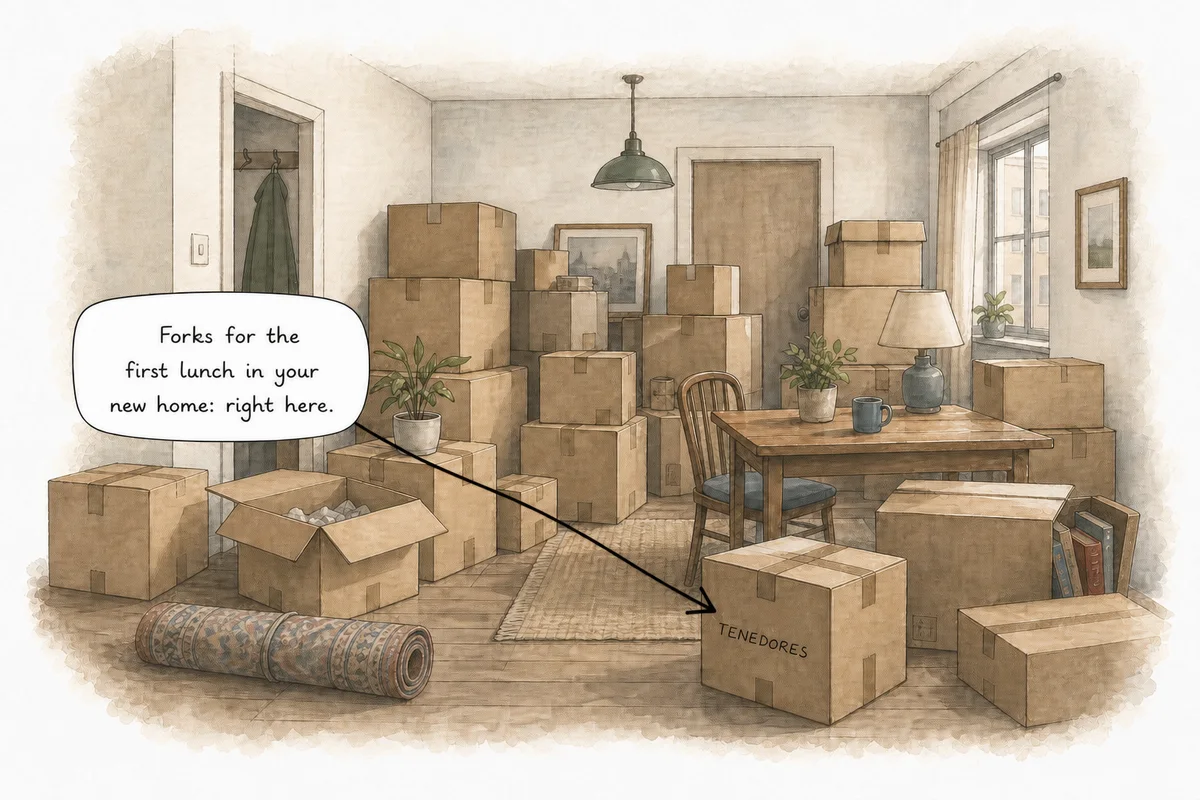
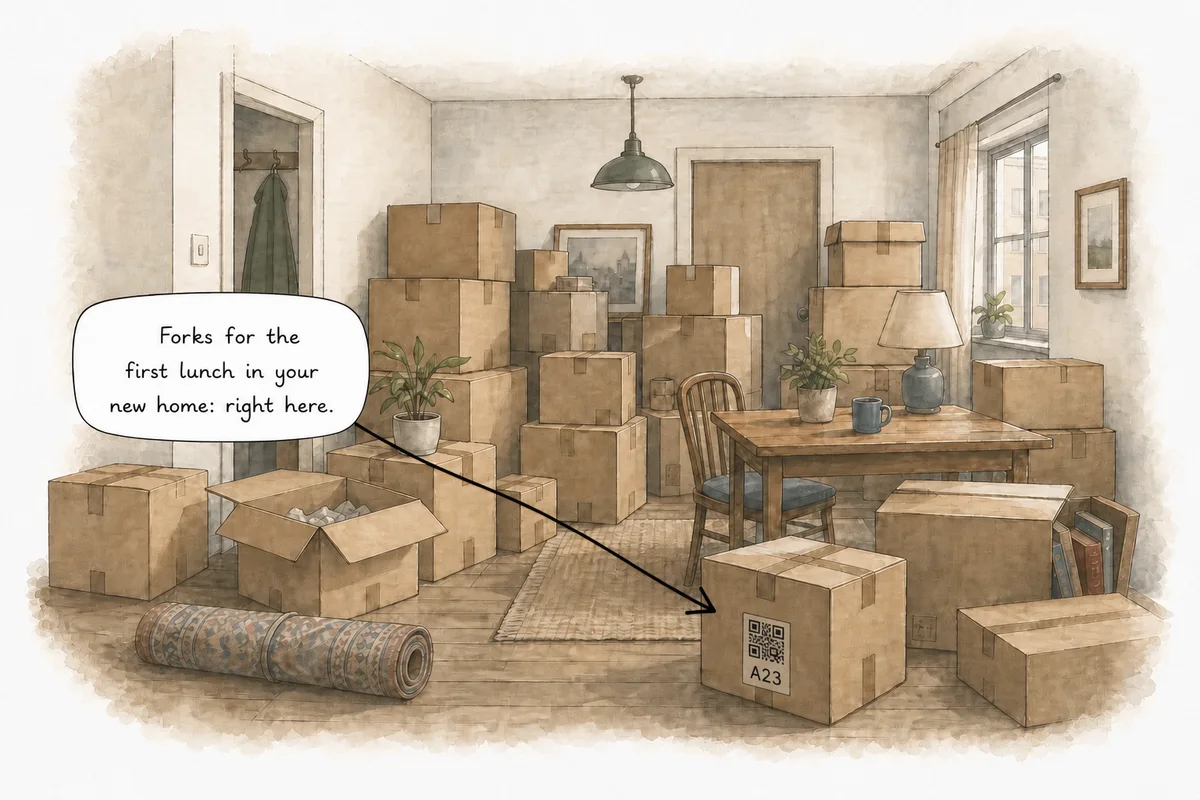
fix(home): separate identity and access paths
Keep the brand definition distinct from functional access modes, add the classic web workflow, refine hero examples, and replace explicit box labeling with an A23 QR reference.\n\nRefs #109

diff --git a/inventory/templates/inventory/home.html b/inventory/templates/inventory/home.html
@@ -12,7 +12,7 @@
         {% translate "A memory for the things around you." %}
       </p>
       <h1 id="page-title">{% translate "Real life is messy." %} <span>{% translate "Let AI help a little." %}</span></h1>
-      <p>{% translate "Tell your AI agent what you have and where it is. Later, ask where the hinges, a book, or that 6 mm drill bit ended up." %}</p>
+      <p>{% translate "Tell your AI agent what you have and where it is. Later, ask where that 6 mm drill bit, a book, or the forks ended up." %}</p>
       <div class="actions">
         {% if user.is_authenticated %}
           <a class="button button-primary" href="{% url 'dashboard' %}">{% translate "Open inventories" %}</a>
@@ -60,18 +60,28 @@
     </div>
   </section>
 
-  <section class="identity-band">
-    <aside class="dictionary-entry" aria-labelledby="quilombo-definition">
-      <div>
-        <h2 id="quilombo-definition">quilombo</h2>
-        <span class="dictionary-class">{% translate "noun · lunfardo" %}</span>
-      </div>
-      <p>{% translate "From the slang of the Río de la Plata: a mess, a chaotic tangle, or a situation that has gotten out of hand." %}</p>
-    </aside>
-    <div class="technical-note">
+  <aside class="dictionary-entry" aria-labelledby="quilombo-definition">
+    <div>
+      <h2 id="quilombo-definition">quilombo</h2>
+      <span class="dictionary-class">{% translate "noun · lunfardo" %}</span>
+    </div>
+    <p>{% translate "From the slang of the Río de la Plata: a mess, a chaotic tangle, or a situation that has gotten out of hand." %}</p>
+  </aside>
+
+  <section class="access-band" aria-label="{% translate 'Ways to use Quilombo' %}">
+    <div class="access-option">
       <h2>{% translate "Built for agents" %}</h2>
       <p>{% translate "Quilombo is an agentic inventory management system. Connect it to ChatGPT, Claude, OpenClaw, or any other MCP client." %}</p>
       <a class="quiet-link" href="{% url 'connector-guide' %}">{% translate "Connect an agent" %} &rarr;</a>
+    </div>
+    <div class="access-option">
+      <h2>{% translate "On the web" %}</h2>
+      <p>{% translate "Use Quilombo as a classic web app, with search, structured editing forms, and a history of every inventory change." %}</p>
+      {% if user.is_authenticated %}
+        <a class="quiet-link" href="{% url 'dashboard' %}">{% translate "Open inventories" %} &rarr;</a>
+      {% else %}
+        <a class="quiet-link" href="{% url 'signup' %}">{% translate "Use the web app" %} &rarr;</a>
+      {% endif %}
     </div>
   </section>
 

diff --git a/inventory/static/inventory/styles.css b/inventory/static/inventory/styles.css
@@ -187,31 +187,30 @@ p { margin: 0 0 18px; }
   margin-top: 26px;
 }
 
-.identity-band {
-  display: grid;
-  grid-template-columns: minmax(0, 1fr) minmax(360px, .9fr);
-  margin-top: 38px;
-  border-block: 1px solid #d9ddda;
-}
-
 .dictionary-entry {
   display: grid;
-  grid-template-columns: 150px minmax(0, 1fr);
-  gap: 28px;
-  padding: 24px 36px 24px 0;
+  grid-template-columns: 180px minmax(0, 1fr);
+  gap: 32px;
+  margin-top: 38px;
+  border-block: 1px solid #d9ddda;
+  padding: 22px 0;
 }
 
 .dictionary-entry h2 { margin-bottom: 2px; font-size: 28px; }
 .dictionary-entry p { align-self: center; margin: 0; }
 .dictionary-class { color: #6c726e; font: 12px system-ui, sans-serif; text-transform: uppercase; }
 
-.technical-note {
-  border-left: 1px solid #e3e6e3;
-  padding: 24px 0 24px 36px;
+.access-band {
+  display: grid;
+  grid-template-columns: repeat(2, minmax(0, 1fr));
+  margin-top: 42px;
+  border-block: 1px solid #d9ddda;
 }
 
-.technical-note h2 { font-size: 18px; }
-.technical-note p { max-width: 34rem; margin-bottom: 9px; color: #555c57; font-size: 14px; }
+.access-option { padding: 24px 36px 24px 0; }
+.access-option + .access-option { border-left: 1px solid #e3e6e3; padding-right: 0; padding-left: 36px; }
+.access-option h2 { font-size: 18px; }
+.access-option p { max-width: 34rem; margin-bottom: 9px; color: #555c57; font-size: 14px; }
 
 .button {
   display: inline-flex;
@@ -435,9 +434,10 @@ code {
   .home-page { width: min(100% - 32px, 980px); }
   .home-page h1 { max-width: 10em; font-size: 42px; }
   .feature-grid { grid-template-columns: 1fr; gap: 20px; }
-  .identity-band { grid-template-columns: 1fr; margin-top: 32px; }
-  .dictionary-entry { grid-template-columns: 1fr; gap: 12px; padding: 22px 0; }
-  .technical-note { border-top: 1px solid #e3e6e3; border-left: 0; padding: 22px 0; }
+  .dictionary-entry { grid-template-columns: 1fr; gap: 12px; margin-top: 32px; }
+  .access-band { grid-template-columns: 1fr; margin-top: 38px; }
+  .access-option { padding: 22px 0; }
+  .access-option + .access-option { border-top: 1px solid #e3e6e3; border-left: 0; padding: 22px 0; }
   .band { margin-top: 58px; }
   .page-heading { display: block; }
   .page-heading > .button, .page-heading > .page-actions { margin-top: 20px; }

diff --git a/inventory/tests.py b/inventory/tests.py
@@ -1378,6 +1378,7 @@ def test_public_home_and_connector_guide(client):
     assert home_response.status_code == 200
     assert "Una memoria para las cosas que te rodean." in home_response.content.decode()
     assert "La vida real es un quilombo." in home_response.content.decode()
+    assert "bisagras" not in home_response.content.decode()
     assert "inventory/home/workshop-es.webp" in home_response.content.decode()
     assert "inventory/home/library-es.webp" in home_response.content.decode()
     assert "inventory/home/moving-es.webp" in home_response.content.decode()
@@ -1409,6 +1410,9 @@ def test_web_detects_english_and_spanish_from_accept_language(client):
     assert "inventory/home/library-en.webp" in english_content
     assert "inventory/home/moving-en.webp" in english_content
     assert "Quilombo is an agentic inventory management system." in english_content
+    assert "Later, ask where that 6 mm drill bit, a book, or the forks ended up." in english_content
+    assert "Use Quilombo as a classic web app" in english_content
+    assert "hinges" not in english_content
     assert "Create account" in english_content
     assert '<html lang="es">' in spanish_content
     assert "Una memoria para las cosas que te rodean." in spanish_content
